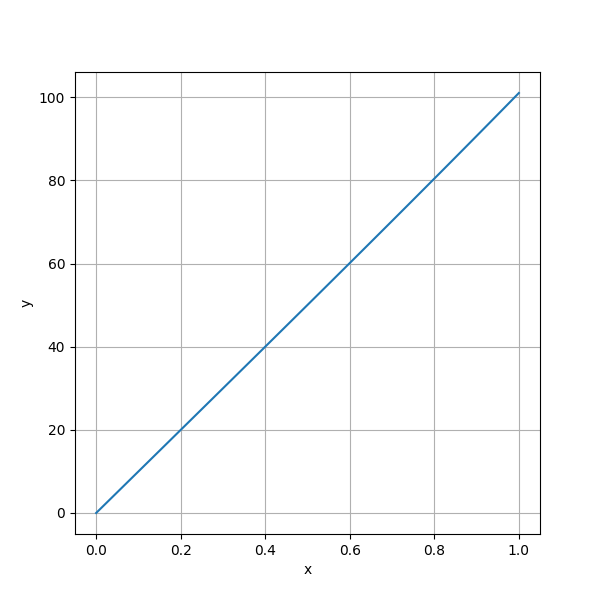
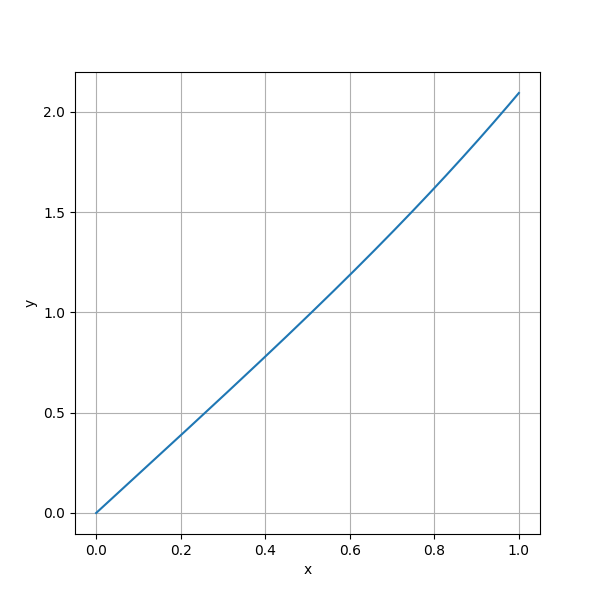
complete 8 lab

diff --git a/8_lab/shooting.py b/8_lab/shooting.py
@@ -12,17 +12,17 @@ def method_RK_4_order(x, start_vector, h, num_steps):
     result = np.zeros((num_steps, np.shape(start_vector)[0]))
     result[0] = start_vector
     integral_summ = 0
-    
+
     for i in range(0, num_steps - 1):
         k_1 = func(x[i], result[i])
-        k_2 = func(x[i], result[i] + 0.5 * h * k_1)
-        k_3 = func(x[i], result[i] + 0.5 * h * k_2)
-        k_4 = func(x[i], result[i] + h * k_3)
+        k_2 = func(x[i] + h / 2, result[i] + 0.5 * h * k_1)
+        k_3 = func(x[i] + h / 2, result[i] + 0.5 * h * k_2)
+        k_4 = func(x[i] + h, result[i] + h * k_3)
         result[i + 1] = result[i] + h * (k_1 + 2 * k_2 + 2 * k_3 + k_4) / 6
 
-        if(i > 0):
-            integral_summ += (result[i][0] - result[i - 1][0]) * h
-    
+        if(i != 0):
+            integral_summ += (result[i][0] + result[i - 1][0]) / 2 * h
+          
     return integral_summ, result
 
 def draw_result_of_MRK(result, x):
@@ -41,26 +41,28 @@ def draw_result_of_MRK(result, x):
 
 #==============================================================================
 
-
 def main():
     x_0 = 0
     y_0 = 0
-    z_0 = 100
+    z_0 = 1.5
     x_beg = 0
     x_end = 1
-    h = 0.01
+    h = 0.001
     
     num_steps = int((x_end - x_beg) / h) + 1
     x = np.linspace(x_beg, x_end, num_steps)
-        
+ 
     integral_sum = 0
     result = np.empty((0), float)
-    epsilon = 1e-6
+    epsilon = 1e-4
     
-    while(abs(integral_sum - 1) > epsilon):
+    while(True):
         start_vector = np.array([y_0, z_0])
         integral_sum, result = method_RK_4_order(x, start_vector, h, num_steps)
-        z_0 -= 100 * epsilon
+        z_0 += 10 * epsilon
+        if(abs(integral_sum - 1.0) < epsilon):
+            print(integral_sum)
+            break
     
     print(z_0)
     draw_result_of_MRK(result, x)
